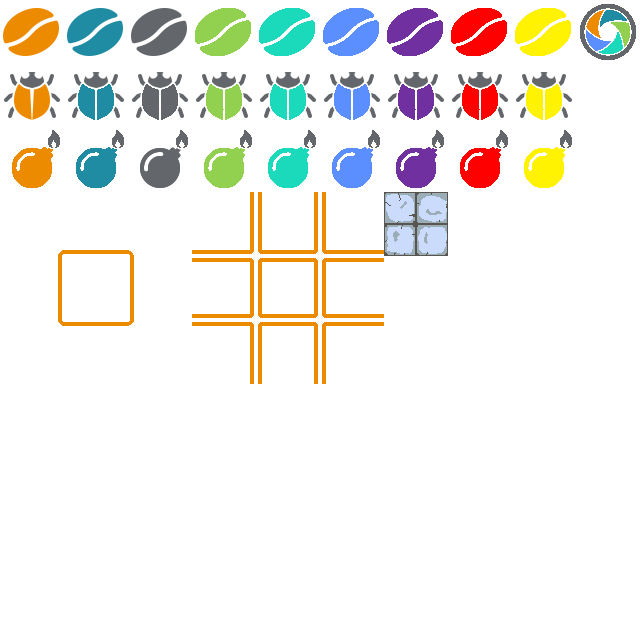
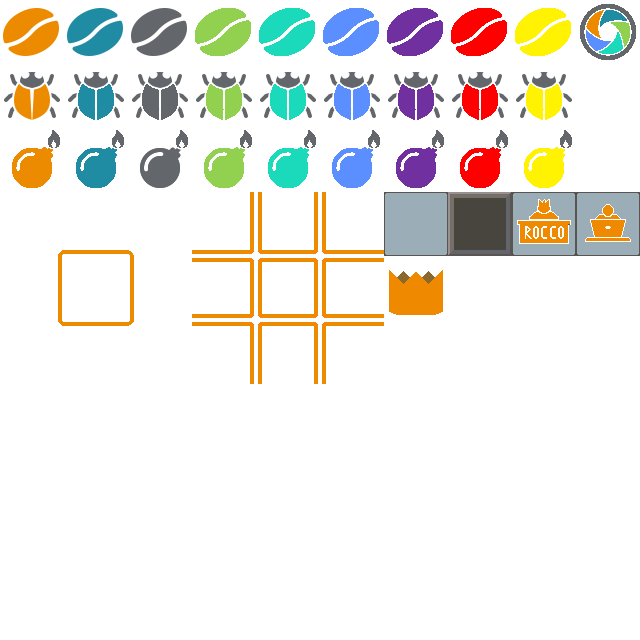
changed tiles; added bg

Changed region(s): [[0.5938, 0.2812, 1.0, 0.5]]

diff --git a/js/scenes/level.js b/js/scenes/level.js
@@ -15,10 +15,10 @@ const ORANGE_HASH = "#ed8b00"
 const MINT_HASH = "#aaf0d1"
 
 const SCALE = 1;
-const FLOOR_TILE = 37;
-const WALL_TILE = 44;
-const BOSS = 0
-const DRONE = 10
+const FLOOR_TILE = 36;
+const WALL_TILE = 37;
+const BOSS = 38
+const DRONE = 39
 
 
 class Level extends Phaser.Scene
@@ -34,12 +34,13 @@ class Level extends Phaser.Scene
     {
         this.gameOver = false
         this.maxRounds = 12
+        this.floor = "01"
 
         // LVL 1
-        // this.column = [1, 4, 2, 7, 0, 4, 4, 4]
-        // this.row = [3, 2, 5, 3, 4, 1, 4, 4]
-        // this.bosses = ["1_5"];
-        // this.drones = ["7_1", "2_2", "7_3", "7_5", "7_7"];
+        this.column = [1, 4, 2, 7, 0, 4, 4, 4]
+        this.row = [3, 2, 5, 3, 4, 1, 4, 4]
+        this.bosses = ["1_5"];
+        this.drones = ["7_1", "2_2", "7_3", "7_5", "7_7"];
 
         // LVL 2
         // this.column = [6, 2, 4, 1, 5 ,4, 4, 5]
@@ -60,10 +61,10 @@ class Level extends Phaser.Scene
         // this.drones = ["5_0", "7_0", "6_3", "1_4", "0_5", "2_7"];
 
         // LVL 5
-        this.column = [3, 3, 3, 3, 6, 3, 2, 5]
-        this.row = [5, 2, 1, 4, 6, 4, 1, 5]
-        this.bosses = ["2_1", "5_2"];
-        this.drones = ["2_5", "4_5", "1_7", "3_7", "5_7"];
+        // this.column = [3, 3, 3, 3, 6, 3, 2, 5]
+        // this.row = [5, 2, 1, 4, 6, 4, 1, 5]
+        // this.bosses = ["2_1", "5_2"];
+        // this.drones = ["2_5", "4_5", "1_7", "3_7", "5_7"];
 
         this.board = []
 
@@ -74,6 +75,7 @@ class Level extends Phaser.Scene
         this.rowText = []
         this.columnText = []
 
+        this.styleHeader = { color: WHITE_HASH, fontSize: "80px", stroke: GREY_HASH, strokeThickness: 8}
         this.styleDefault = { color: WHITE_HASH, fontSize: "60px", stroke: GREY_HASH, strokeThickness: 8}
         this.styleCorrect = { color: MINT_HASH, fontSize: "60px", stroke: GREY_HASH, strokeThickness: 8}
         this.styleFalse = { color: GREY_HASH, fontSize: "60px", stroke: GREY_HASH, strokeThickness: 8}
@@ -81,12 +83,22 @@ class Level extends Phaser.Scene
 
     preload ()
     {
-        this.load.image('bg', 'assets/sprites/headquarter.png')
+        this.load.image('bg', 'assets/tiles/skyscraper.avif')
         this.load.spritesheet('tileSprite', 'assets/tiles/match3.png', { frameWidth: TILE_WIDTH, frameHeight: TILE_HEIGHT });
     }
 
     create ()
     {
+        const bg = this.add.image(CANVAS_WIDTH/2 + 540, CANVAS_HEIGHT/2 + 150, "bg")
+            .setScale(4)
+
+        const rect = this.add.rectangle(20, 20, 410, 90, WHITE)
+            .setOrigin(0)
+            .setStrokeStyle(5, GREY, 0.5)
+
+        const header = this.add.text(30, 20, "Floor " + this.floor, this.styleHeader)
+            .setOrigin(0)
+
         let padX = (CANVAS_WIDTH - (NUM_TILES + 1) * TILE_WIDTH) / 2
         let padY = (CANVAS_HEIGHT - (NUM_TILES + 1) * TILE_HEIGHT) / 2
         
